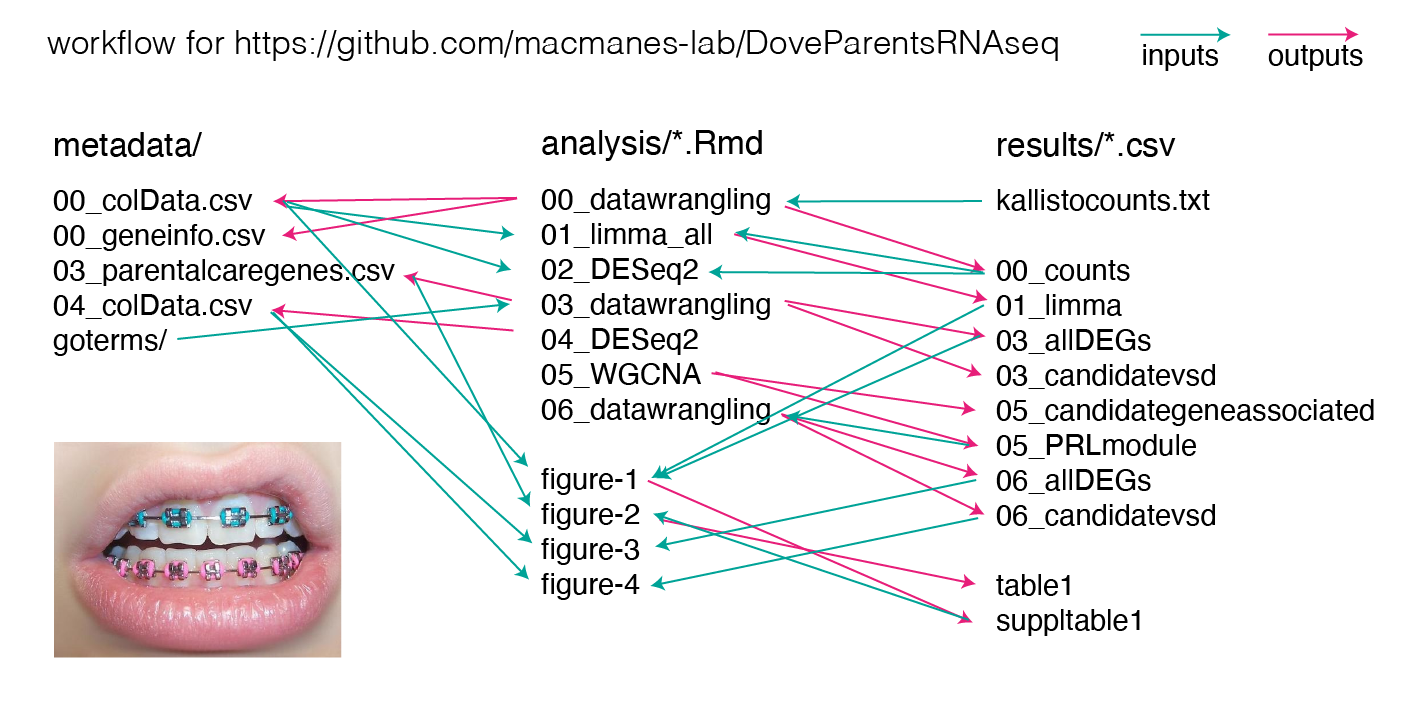
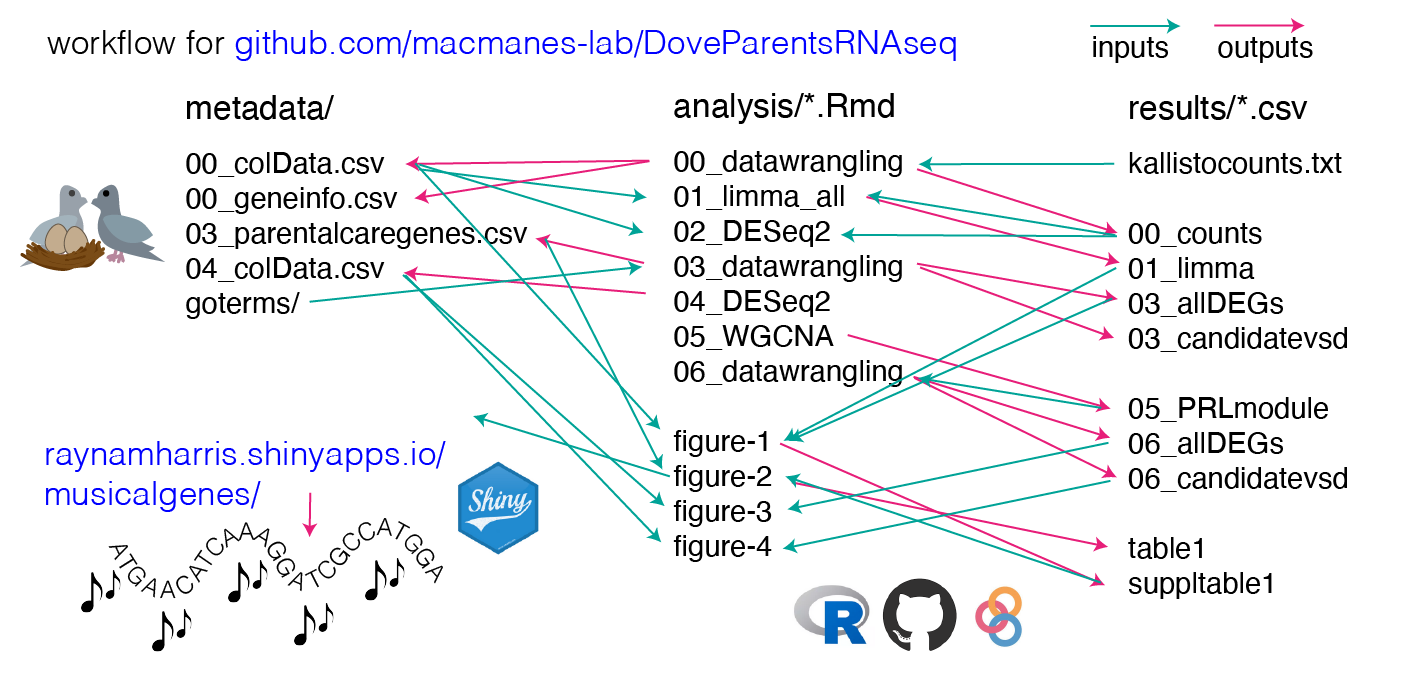
update workflow image

diff --git a/README.md b/README.md
@@ -17,34 +17,35 @@ These repositories is broken down into the following sub-repositories, each with
 
 There are two hidden directories, `kallisto_mappings` and `mapping`, which contain the results of the kallisto and salmon algorithms that transform read counts into gene counts.  
 
+Here's a draft of the hairball of a workflow as of May 13, 2020. 
 
-## Figure 1 
+
+![](./figures/images/fig_workflow.png)
+
+## Figures and Tables
+
+### Figure 1 
 
 ![](./figures/fig1-1.png)
 
 
-## Figure 2 
+### Figure 2 
 
 ![](./figures/fig2-1.png)
 
-## Figure 3 (placeholders) 
+### Figure 3 
 
 ![](./figures/fig3-1.png)
-
-![](./figures/images/fig_thumbnail.png)
 
 
 ## Figure 4
 
 ![](./figures/fig4-1.png)
 
-## Figure 5
+### Other
 
-![](./figures/fig5-1.png)
+![](./figures/images/fig_thumbnail.png)
 
-## Figure 6
-
-![](./figures/fig6-1.png)
 
 
 ## Table 1
